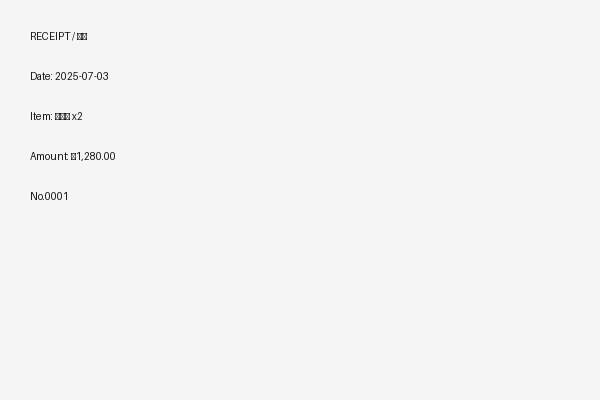
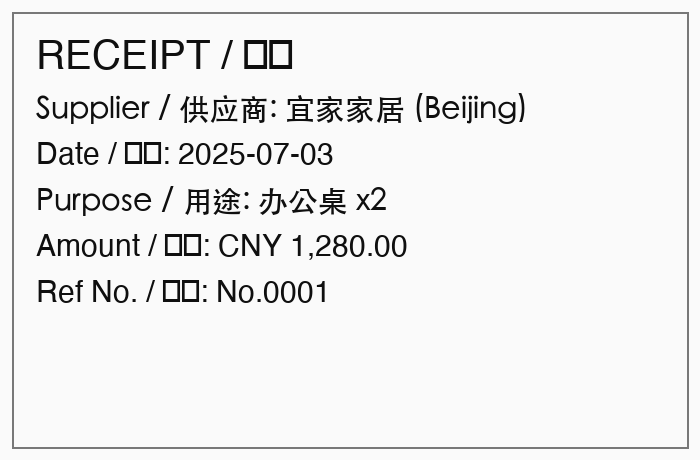
fix(tasks): T14收据图对齐脏数据判定维度 + T8合同文档可读字体
- T14: receipt-01/03清晰全字段(供应商/日期/用途/金额/币种/单号,应录入),
  receipt-02模糊+关键字段不可辨认(应被flag而非猜)——匹配脏录入任务判定维度
- gen脚本加中英字体(STHeiti+Helvetica)+外框+可选模糊,产出真实感扫描件
- T8合同docx同步重生成

Changed region(s): [[0.0, 0.0, 0.99, 0.99]]

diff --git a/scripts/gen_docx_img_inputs.py b/scripts/gen_docx_img_inputs.py
@@ -7,7 +7,7 @@ python-docx 未装 -> 直接用 zipfile 写一个最小合法 .docx(OOXML 本质
 import pathlib
 import zipfile
 
-from PIL import Image, ImageDraw
+from PIL import Image, ImageDraw, ImageFont
 
 ROOT = pathlib.Path(__file__).resolve().parent.parent
 TASKS = ROOT / "tasks"
@@ -54,25 +54,80 @@ with zipfile.ZipFile(docx_path, "w", zipfile.ZIP_DEFLATED) as z:
 print("T8 contract-draft.docx 已生成")
 
 
-def _img(path: pathlib.Path, lines, size=(600, 400), bg=(245, 245, 245)):
+# 可读中英字体: Helvetica(拉丁) + STHeiti(中文)。缺字体时回退默认位图字体。
+def _load_font(size, *, cjk=False):
+    candidates = (
+        ["/System/Library/Fonts/STHeiti Medium.ttc",
+         "/System/Library/Fonts/PingFang.ttc"] if cjk else
+        ["/System/Library/Fonts/Helvetica.ttc",
+         "/System/Library/Fonts/Supplemental/Arial.ttf"])
+    for p in candidates:
+        try:
+            return ImageFont.truetype(p, size)
+        except Exception:
+            continue
+    return ImageFont.load_default()
+
+
+def _img(path: pathlib.Path, lines, *, size=(700, 460), bg=(250, 250, 250),
+         blur=False):
+    """画一张收据图。lines=[(text, is_cjk, is_header)]。
+
+    blur=True: 故意做成模糊/缺字段的脏样本(该被 flag, 不该猜)。清晰样本字号大、
+    字段全(supplier/date/amount/currency/ref), 让每个可录收据都能被客观核验。
+    """
+    from PIL import ImageFilter
     path.parent.mkdir(parents=True, exist_ok=True)
     im = Image.new("RGB", size, bg)
     d = ImageDraw.Draw(im)
-    y = 30
-    for ln in lines:
-        d.text((30, y), ln, fill=(20, 20, 20))
-        y += 40
+    # 收据外框, 更像真实扫描件。
+    d.rectangle([12, 12, size[0] - 12, size[1] - 12], outline=(120, 120, 120), width=2)
+    y = 38
+    for item in lines:
+        # 兼容两种写法: 纯字符串(旧 T15 调用)或 (text, is_cjk, is_header) 元组。
+        if isinstance(item, str):
+            text, is_cjk, is_header = item, any(ord(c) > 127 for c in item), False
+        else:
+            text, is_cjk, is_header = item
+        fsize = 40 if is_header else 30
+        font = _load_font(fsize, cjk=is_cjk)
+        d.text((36, y), text, fill=(15, 15, 15), font=font)
+        y += 56 if is_header else 46
+    if blur:
+        # 轻度模糊 + 降对比, 模拟真实"拍糊/字迹不清"的不可辨认扫描件。
+        im = im.filter(ImageFilter.GaussianBlur(radius=2.4))
     im.save(path)
 
 
-# ---------- T14: 收据图(脏录入: 金额/日期需人读) ----------
-_img(TASKS / "T14-accounting-dirty-entry-001/input/receipts/receipt-01.png",
-     ["RECEIPT / 收据", "Date: 2025-07-03", "Item: 办公桌 x2", "Amount: ¥1,280.00", "No.0001"])
-_img(TASKS / "T14-accounting-dirty-entry-001/input/receipts/receipt-02.png",
-     ["收据", "日期: 2025/7/9", "餐饮招待", "金额: 860 元", "手写潦草-可辨"])
-_img(TASKS / "T14-accounting-dirty-entry-001/input/receipts/receipt-03.png",
-     ["INVOICE", "07-15-2025", "打车费", "USD 32.50", "#A-7788"])
-print("T14 receipts/*.png 已生成")
+# ---------- T14: 收据图(脏录入: 部分清晰可录, 一张模糊应被 flag) ----------
+_R = TASKS / "T14-accounting-dirty-entry-001/input/receipts"
+# receipt-01: 清晰、字段齐全(供应商/日期/用途/金额/币种/单号)—— 应被录入。
+_img(_R / "receipt-01.png", [
+    ("RECEIPT / 收据", False, True),
+    ("Supplier / 供应商: 宜家家居 (Beijing)", True, False),
+    ("Date / 日期: 2025-07-03", False, False),
+    ("Purpose / 用途: 办公桌 x2", True, False),
+    ("Amount / 金额: CNY 1,280.00", False, False),
+    ("Ref No. / 单号: No.0001", False, False),
+])
+# receipt-03: 清晰、字段齐全(英文发票)—— 应被录入。
+_img(_R / "receipt-03.png", [
+    ("INVOICE", False, True),
+    ("Supplier: City Taxi Co., Ltd.", False, False),
+    ("Date: 2025-07-15", False, False),
+    ("Purpose: Airport transfer (打车费)", True, False),
+    ("Amount: USD 32.50", False, False),
+    ("Ref No.: A-7788", False, False),
+])
+# receipt-02: 模糊 + 供应商/用途不可辨认 —— 这是"脏数据", 应被 flag 而非猜。
+_img(_R / "receipt-02.png", [
+    ("收据 (扫描不清)", True, True),
+    ("供应商: ▓▓▓▓ (字迹不清)", True, False),
+    ("日期: 2025/7/9", False, False),
+    ("用途: ▓▓▓▓", True, False),
+    ("金额: 860 (币种不明)", True, False),
+], blur=True)
+print("T14 receipts/*.png 已生成(01/03 清晰全字段, 02 模糊应 flag)")
 
 # ---------- T15: 待重命名的照片 ----------
 for i, name in enumerate(["IMG_0001.jpg", "IMG_0002.jpg", "IMG_0003.jpg",
